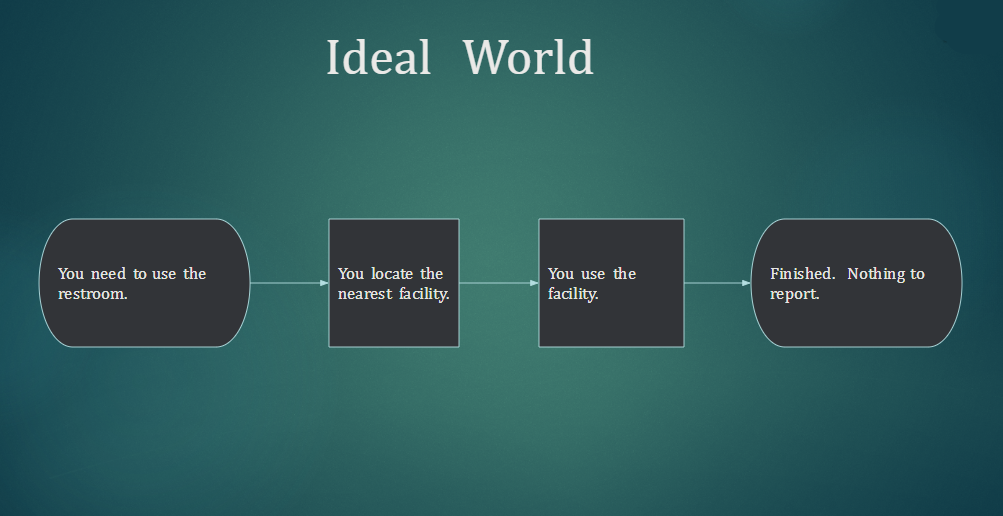
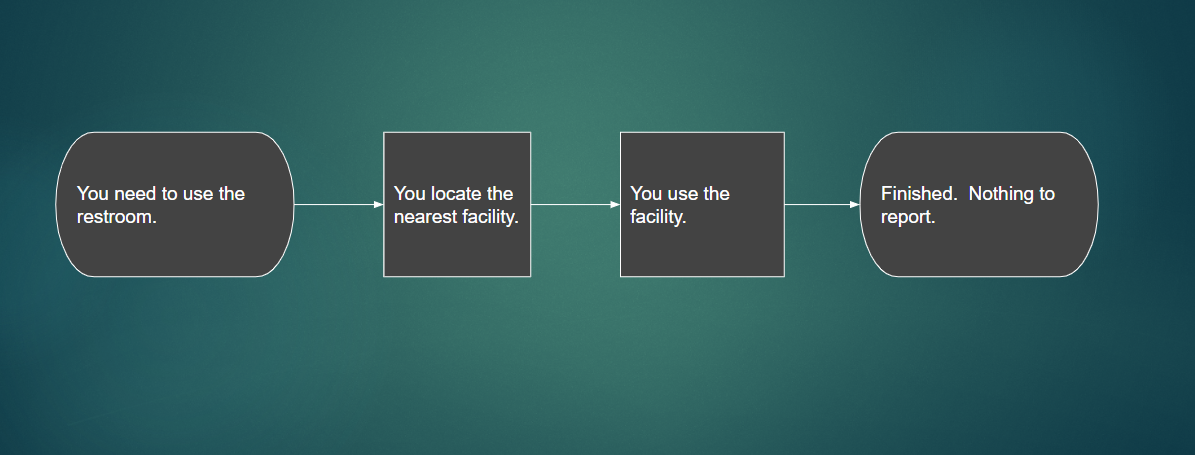
Problem.tsx (#32)
fixing problem statement & bit of editing to the process flow

Changed region(s): [[0.0309, 0.2769, 0.9581, 0.6769], [0.4636, 0.0615, 0.5872, 0.1538], [0.3091, 0.0615, 0.4327, 0.1538]]

diff --git a/src/app/problem.tsx b/src/app/problem.tsx
@@ -65,16 +65,12 @@ export default class Problem extends React.Component<{}, ProblemState> {
                         }
                     </div>
                     <div className="problem-page-sub-header">
-                        So do We...
+                        So do we...
                         <br />
-                        Finding safe bathrooms based on your feedback in real-time is how our app excels above the rest.
+                        When it comes to identifying a quality restroom it can be difficult to get real-time data based upon feedback about the safety, cleanliness, and wait-time.
                     </div>
                     <p className="problem-page-statement">
-                        Everyday we are faced with the urge to use the restroom,
-                        however not all restrooms meet our needs or expectations.
-                        Knowledge of location, amenities, sanitation, or safety are not always apparent when looking to use the restroom,
-                        thus deterring users away from the restroom.
-                        When users do not use the restroom it incurs gastric intestinal discomfort or constipation.
+                        
                     </p>
                 </div>
                 <div className="problem-page-section">
@@ -108,7 +104,9 @@ export default class Problem extends React.Component<{}, ProblemState> {
                     <div className="problem-page-sub-header">
                         Geek out with us and check out our flow
                     </div>
-                    <img className="problem-page-flow-image" src="images/problemIdeal.png" /> 
+                    <h2> In an ideal world </h2>
+                    <img className="problem-page-flow-image" src="images/problemIdeal.png" />
+                    <h2> What actually happens</h2> 
 					<img className="problem-page-flow-image" src="images/problemReality.png" />
                 </div>
             </div>
